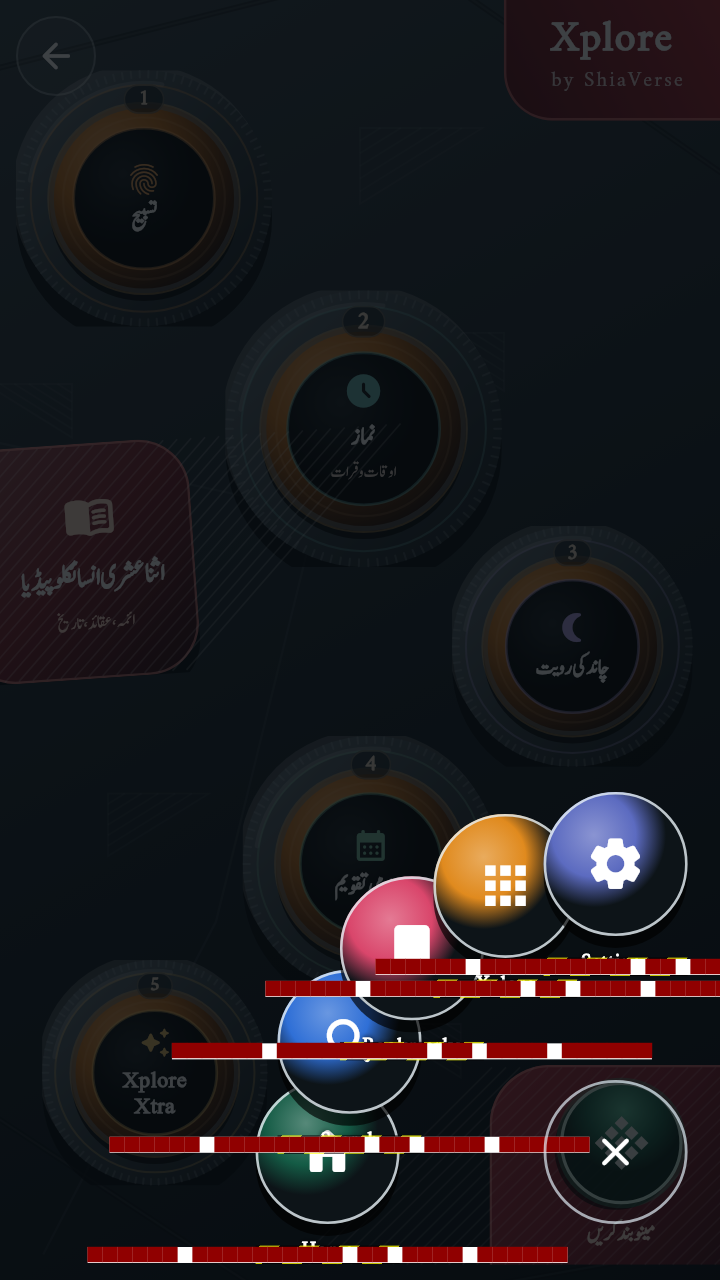
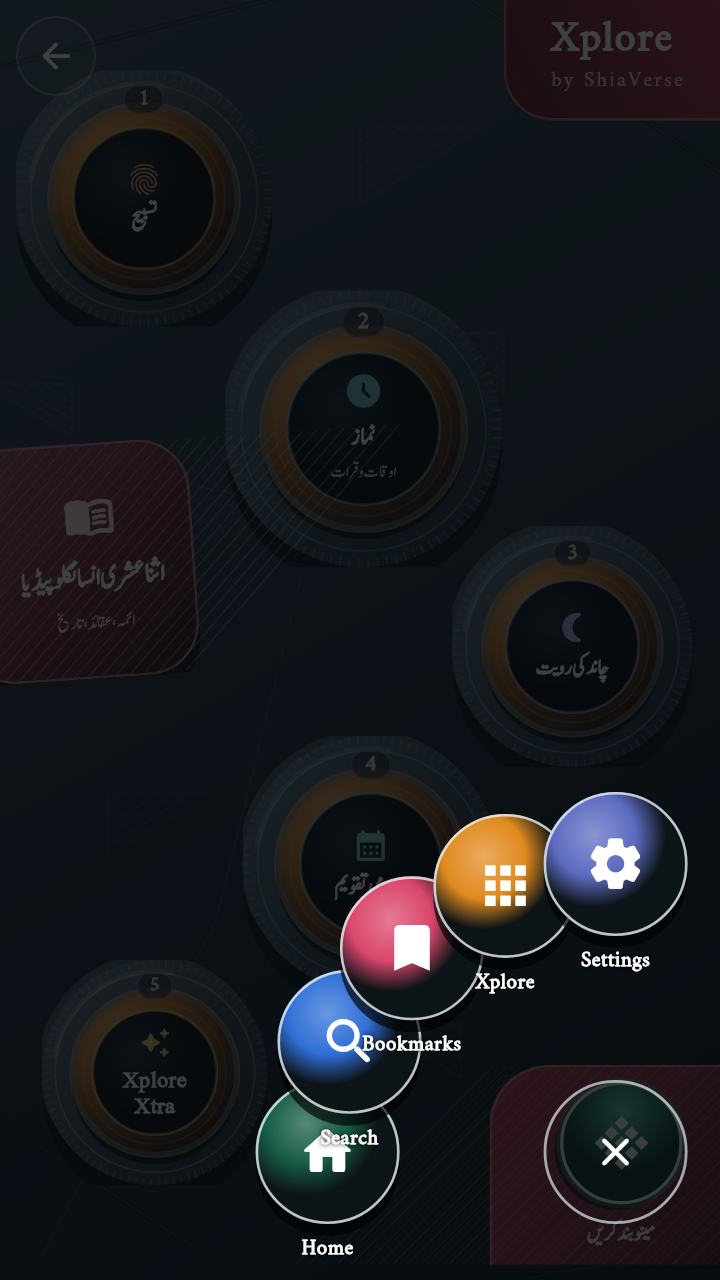
Space the radial dials so their captions stay readable
Five dials over a 90-degree arc were 56 dp apart while each dial was 74 dp
wide, so the circles covered each other and every caption landed on the
next dial. The arc is now 0.46 of the short side with ~60 dp dials: about
65 dp between centres, which clears the captions on a 360 dp phone.

diff --git a/app/lib/screens/explore_screen.dart b/app/lib/screens/explore_screen.dart
@@ -744,8 +744,12 @@ class _RadialMenuState extends State<_RadialMenu> with SingleTickerProviderState
   Widget build(BuildContext context) {
     const destinations = HubDestination.values;
     final size = MediaQuery.sizeOf(context);
-    final radius = math.min(size.width, size.height) * 0.40;
-    final itemSize = math.min(74.0, size.width * 0.20);
+    // The dials sit on an arc 90 degrees wide. Their spacing is therefore
+    // radius * pi / 8, so the radius and the dial have to grow together: at
+    // 0.40 and 74 dp the five circles were 56 dp apart and covered each
+    // other's captions. 0.46 and ~60 dp leaves a gap on the narrowest phone.
+    final radius = math.min(size.width, size.height) * 0.46;
+    final itemSize = math.min(60.0, size.width * 0.165);
     return AnimatedBuilder(
       animation: _controller,
       builder: (context, _) {
